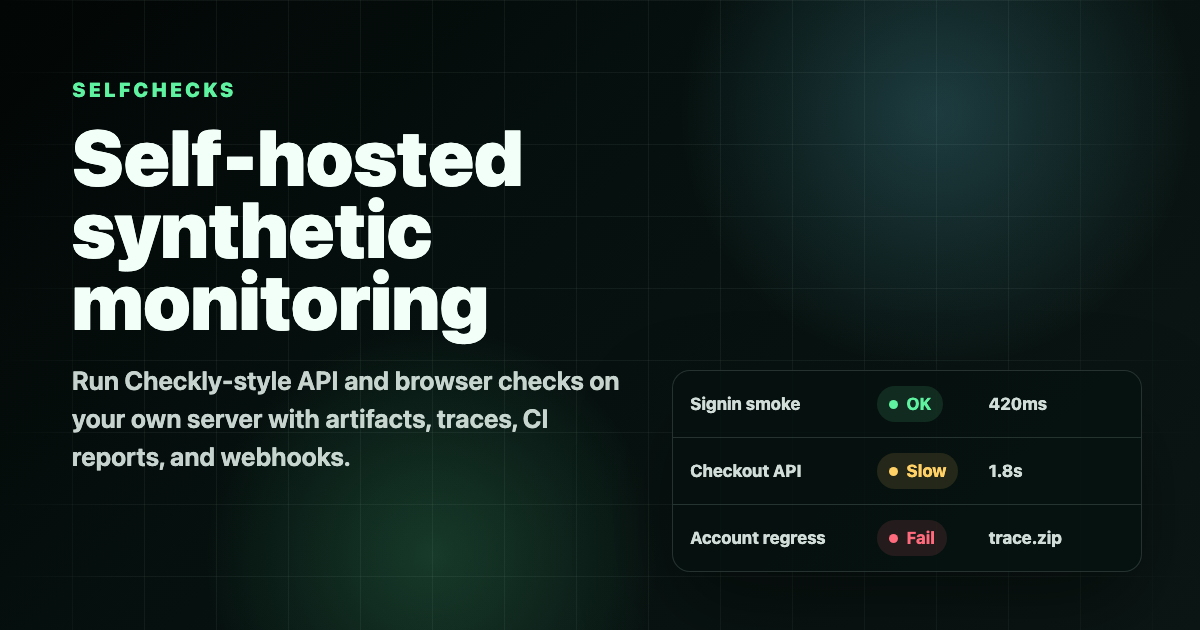
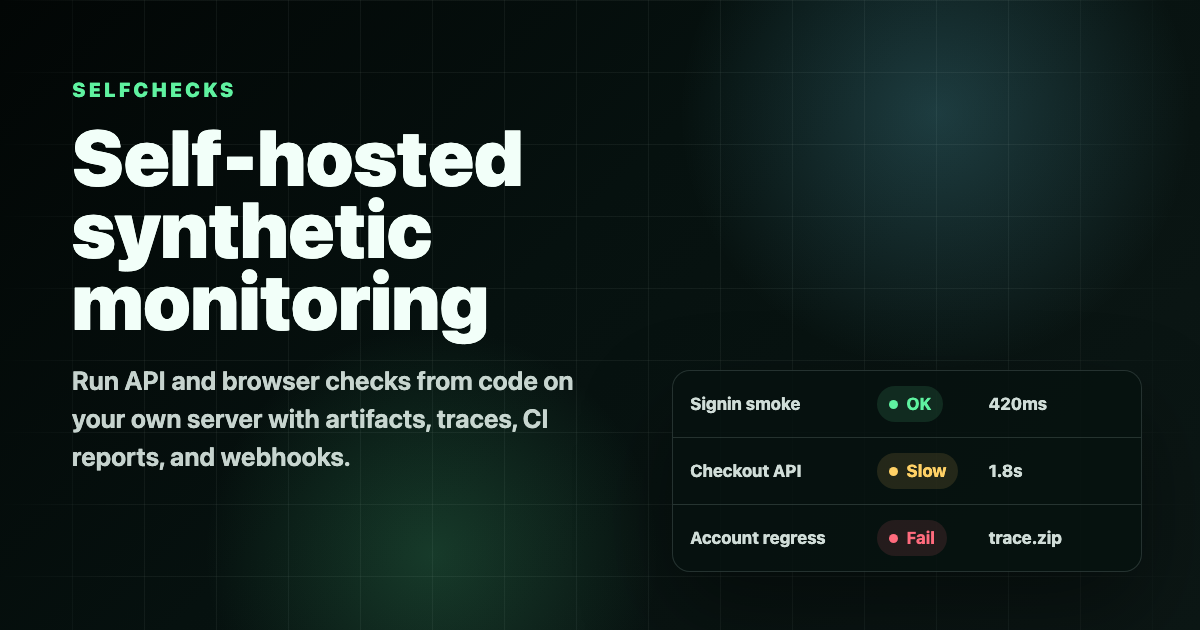
Reposition Checkly compatibility as a feature

Changed region(s): [[0.0925, 0.573, 0.5242, 0.6333]]

diff --git a/index.html b/index.html
@@ -6,11 +6,11 @@
     <title>Selfchecks — Self-hosted synthetic monitoring from checks as code</title>
     <meta
       name="description"
-      content="Selfchecks is a self-hosted synthetic checks runner and dashboard for teams that already describe monitoring as code. Keep Checkly-style checks, run them on your own server, and inspect artifacts in one operational dashboard."
+      content="Selfchecks is a self-hosted synthetic checks runner and dashboard for teams that describe monitoring as code. Define checks in your repository, run them on your own server, and inspect artifacts in one operational dashboard."
     />
     <meta
       name="keywords"
-      content="self-hosted synthetic monitoring, checkly alternative, checks as code, playwright monitoring, api checks, self-hosted uptime monitoring"
+      content="self-hosted synthetic monitoring, checks as code, playwright monitoring, api checks, browser checks, self-hosted uptime monitoring"
     />
     <meta
       name="robots"
@@ -29,7 +29,7 @@
     <meta property="og:title" content="Selfchecks — Self-hosted synthetic monitoring" />
     <meta
       property="og:description"
-      content="Run Checkly-style API and browser checks on your own server with a compact dashboard, CI reports, artifacts, traces, screenshots, and webhook notifications."
+      content="Run API and browser checks from code on your own server with a compact dashboard, CI reports, artifacts, traces, screenshots, and webhook notifications."
     />
     <meta property="og:url" content="https://selfchecks.github.io/" />
     <meta property="og:image" content="https://selfchecks.github.io/og-card.png" />
@@ -44,7 +44,7 @@
     <meta name="twitter:title" content="Selfchecks — Self-hosted synthetic monitoring" />
     <meta
       name="twitter:description"
-      content="A self-hosted runner and dashboard for Checkly-style checks, Playwright artifacts, CI reports, and recovery notifications."
+      content="A self-hosted runner and dashboard for checks as code, Playwright artifacts, CI reports, and recovery notifications."
     />
     <meta name="twitter:image" content="https://selfchecks.github.io/og-card.png" />
     <meta
@@ -67,7 +67,7 @@
             "@type": "WebSite",
             "name": "Selfchecks",
             "url": "https://selfchecks.github.io/",
-            "description": "Self-hosted synthetic checks runner and dashboard for Checkly-style checks as code.",
+            "description": "Self-hosted synthetic checks runner and dashboard for checks as code.",
             "sameAs": ["https://github.com/selfchecks/selfchecks"]
           },
           {
@@ -79,7 +79,7 @@
             "description": "Self-hosted synthetic checks runner and dashboard for API and browser checks, Playwright artifacts, CI reports, schedules, and webhook notifications.",
             "isAccessibleForFree": true,
             "featureList": [
-              "Checkly-style checks as code import",
+              "Checks as code import and deployment",
               "Self-hosted API and browser check execution",
               "Playwright traces, screenshots, videos, and logs",
               "Dashboard for status, groups, tags, and run history",
@@ -134,8 +134,8 @@
         <p class="eyebrow">Self-hosted synthetic monitoring</p>
         <h1>Selfchecks</h1>
         <p class="hero-lead">
-          Keep Checkly-style API and browser checks in your repository, run them on your own
-          server, and inspect failures with traces, screenshots, videos, logs, and CI-ready reports.
+          Define API and browser checks in your repository, run them on your own server, and
+          inspect failures with traces, screenshots, videos, logs, and CI-ready reports.
         </p>
 
         <div class="hero-actions" aria-label="Hero actions">
@@ -152,7 +152,7 @@
         <dl class="signal-strip" aria-label="Product highlights">
           <div>
             <dt>Existing checks</dt>
-            <dd>import Checkly-style definitions</dd>
+            <dd>import repository definitions</dd>
           </div>
           <div>
             <dt>Local runner</dt>
@@ -184,9 +184,9 @@
         <div class="feature-grid">
           <article class="feature-card">
             <span class="feature-icon" aria-hidden="true">01</span>
-            <h3>Source-level compatibility</h3>
+            <h3>Compatibility import</h3>
             <p>
-              Import the Checkly-style constructs you already use: browser checks, API checks,
+              Bring over Checkly-style constructs when you need them: browser checks, API checks,
               groups, tags, schedules, and Playwright entrypoints.
             </p>
           </article>

diff --git a/tools/asset-renderer.html b/tools/asset-renderer.html
@@ -565,7 +565,7 @@
       <div class="og-copy">
         <p class="label">Selfchecks</p>
         <h1>Self-hosted synthetic monitoring</h1>
-        <p class="sub">Run Checkly-style API and browser checks on your own server with artifacts, traces, CI reports, and webhooks.</p>
+        <p class="sub">Run API and browser checks from code on your own server with artifacts, traces, CI reports, and webhooks.</p>
       </div>
       <div class="og-panel">
         <div class="table-row"><span>Signin smoke</span><span class="status">OK</span><span>420ms</span></div>